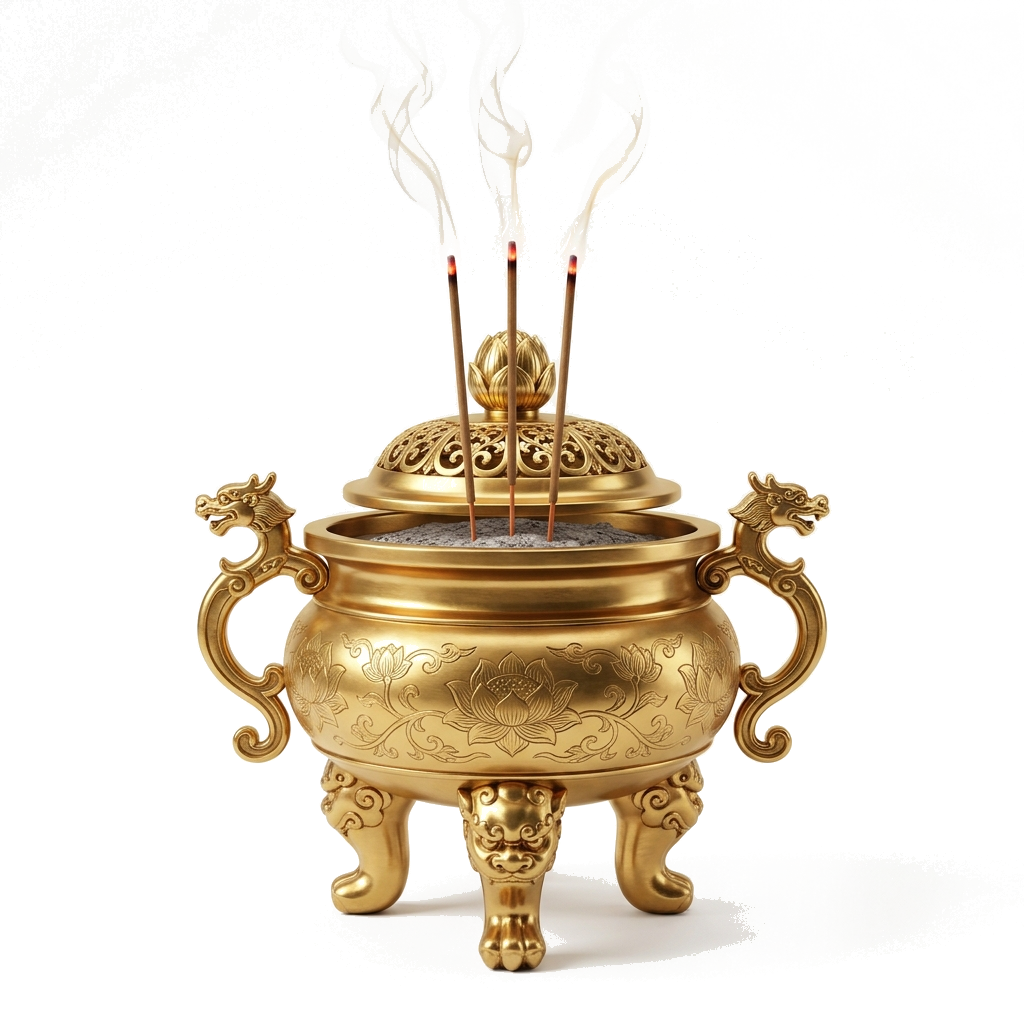
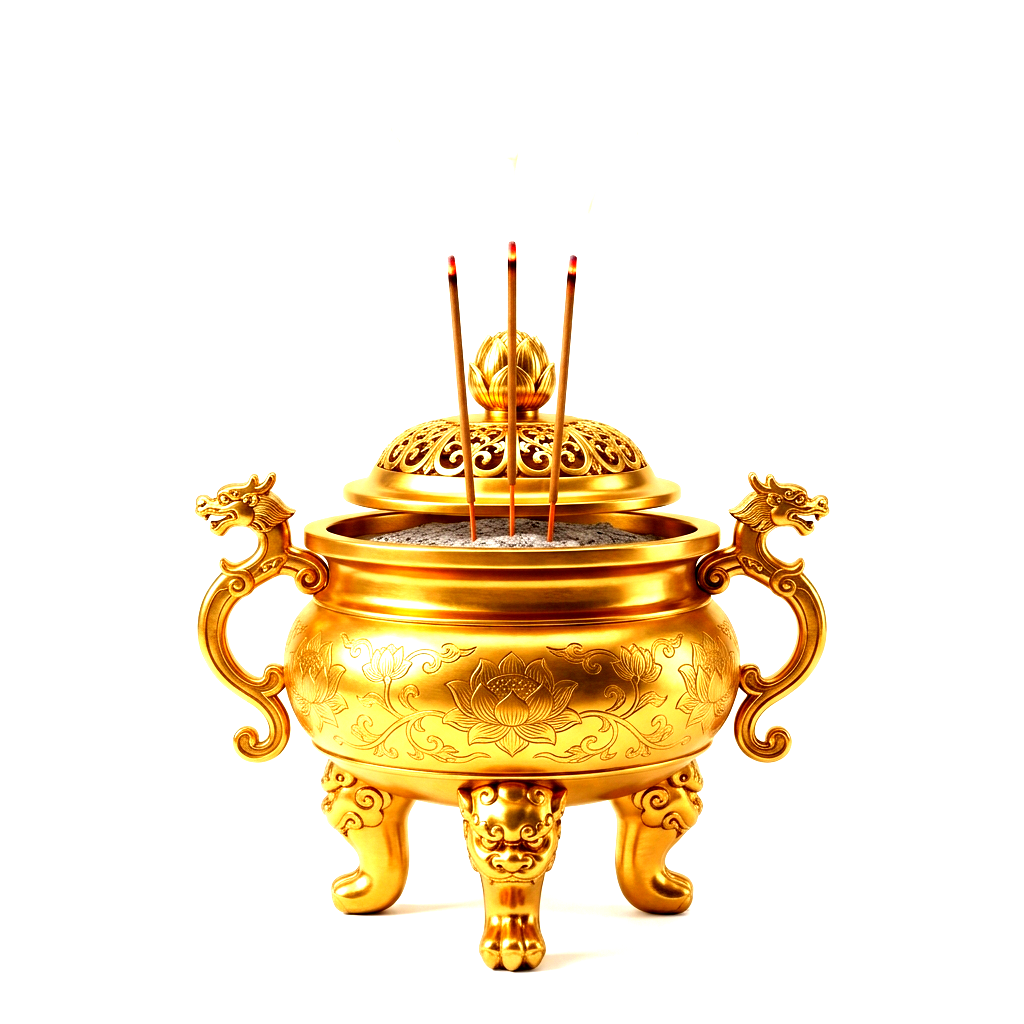
feat(sanctuary): add traditional altar incense table with realistic smoking incense burner

diff --git a/src/components/Meditate/SowonsaSanctuaryModal.jsx b/src/components/Meditate/SowonsaSanctuaryModal.jsx
@@ -601,9 +601,10 @@ export default function SowonsaSanctuaryModal({
         <div className="absolute inset-x-0 bottom-0 h-28 bg-gradient-to-t from-black via-black/80 to-transparent pointer-events-none" />
       </div>
 
-      {/* 2-1. 대웅전 실제 전경 제단 뷰 (z-[1]: 수미단 목조 하단까지 원본 그대로 높고 웅장하게 전체 노출) */}
+      {/* 2-1. 대웅전 실제 전경 제단 뷰 & 제단 앞 전통 향탁/향로/향 연기 씬 */}
       <div className="absolute inset-x-0 top-12 sm:top-14 flex flex-col items-center pointer-events-none z-[1]">
-        <div className="relative w-full max-w-xl aspect-[4/3] overflow-hidden">
+        <div className="relative w-full max-w-xl aspect-[4/3]">
+          {/* 대웅전 실제 전경 삼존불 제단 원본 사진 */}
           <img 
             src="/images/sowonsa_daewoongjeon_altar_front.jpg" 
             alt="제주 소원사 대웅전 삼존불" 
@@ -612,8 +613,8 @@ export default function SowonsaSanctuaryModal({
           {/* 상단 단청 연결부 자연스러운 음영 */}
           <div className="absolute inset-x-0 top-0 h-3 bg-gradient-to-b from-black/30 to-transparent pointer-events-none" />
           
-          {/* 하단 목조 수미단 바닥 접지면만 미세한 자연스러운 그림자 (수미단 본체 전체 온전히 노출) */}
-          <div className="absolute inset-x-0 bottom-0 h-3 bg-gradient-to-t from-black/30 to-transparent pointer-events-none" />
+          {/* 하단 목조 수미단 바닥 접지면 미세한 자연스러운 그림자 */}
+          <div className="absolute inset-x-0 bottom-0 h-4 bg-gradient-to-t from-black/40 to-transparent pointer-events-none" />
 
           {/* 좌우 은은한 비네팅 */}
           <div className="absolute inset-y-0 left-0 w-2.5 bg-gradient-to-r from-black/30 to-transparent pointer-events-none" />
@@ -621,55 +622,125 @@ export default function SowonsaSanctuaryModal({
           
           {/* 삼존불 황금빛 광배 은은한 후광 조명 효과 */}
           <div className="absolute inset-0 bg-[radial-gradient(ellipse_at_50%_35%,_var(--tw-gradient-stops))] from-[#FFD700]/15 via-transparent to-transparent pointer-events-none" />
-        </div>
-      </div>
 
-      {/* 🕯 부처님 전 분향(향올리기) 실시간 연기 & 서기(瑞氣) 대형 시각 이펙트 */}
-      {isSmokingIncense && (
-        <div className="absolute inset-x-0 top-24 sm:top-28 z-20 flex flex-col items-center justify-center pointer-events-none animate-in fade-in zoom-in-90 duration-500">
-          {/* 황금빛 서기 후광 오라 */}
-          <div className="absolute w-56 h-56 rounded-full bg-gradient-to-t from-amber-400/30 via-yellow-300/20 to-transparent blur-3xl animate-pulse" />
-          
-          {/* 모락모락 피어오르는 청정한 3줄기 향 연기 애니메이션 */}
-          <div className="relative flex flex-col items-center">
-            <svg viewBox="0 0 120 140" className="w-32 h-40 sm:w-40 sm:h-48 drop-shadow-[0_0_20px_rgba(245,208,97,0.9)]">
-              <path
-                d="M50 130 C42 100 68 75 52 40 C44 20 58 8 55 0"
-                stroke="rgba(255, 248, 210, 0.85)"
-                strokeWidth="3.5"
-                fill="none"
-                strokeLinecap="round"
-                className="animate-pulse"
-              />
-              <path
-                d="M60 130 C68 105 48 80 64 45 C72 25 60 10 62 0"
-                stroke="rgba(255, 235, 160, 0.95)"
-                strokeWidth="4"
-                fill="none"
-                strokeLinecap="round"
-              />
-              <path
-                d="M70 130 C78 100 58 70 70 38 C76 18 64 5 66 0"
-                stroke="rgba(255, 248, 210, 0.8)"
-                strokeWidth="3"
-                fill="none"
-                strokeLinecap="round"
-                className="animate-pulse"
-              />
-              {/* 타오르는 붉은 불씨 */}
-              <circle cx="50" cy="132" r="3" fill="#FF5252" className="animate-ping" />
-              <circle cx="60" cy="132" r="3.5" fill="#FF7675" className="animate-pulse" />
-              <circle cx="70" cy="132" r="3" fill="#FF5252" className="animate-ping" />
-            </svg>
+          {/* ══════════════════════════════════════════════════════════════
+              🪔 수미단(제단) 앞 조그만 전통 목조 향탁 & 황금 향로 & 피어오르는 향 연기
+              ══════════════════════════════════════════════════════════════ */}
+          <div className="absolute bottom-1 sm:bottom-2 left-1/2 -translate-x-1/2 flex flex-col items-center pointer-events-none z-10">
+            
+            {/* 1. 향로에서 삼존불을 향해 피어오르는 부드러운 향 연기 (Smoke Layer) */}
+            <div className="relative w-32 h-36 -mb-6 flex justify-center items-end pointer-events-none overflow-visible">
+              
+              {/* [평상시 기본 은은한 연기] */}
+              {!isSmokingIncense && (
+                <div className="relative w-16 h-32 flex justify-center items-end opacity-60">
+                  {/* 연기 줄기 1 */}
+                  <div className="absolute bottom-2 w-3 h-16 rounded-full bg-gradient-to-t from-amber-200/50 via-white/40 to-transparent blur-[2px] anim-smoke-1" />
+                  {/* 연기 줄기 2 */}
+                  <div className="absolute bottom-2 w-4 h-20 rounded-full bg-gradient-to-t from-yellow-100/40 via-white/30 to-transparent blur-[2.5px] anim-smoke-2" />
+                  {/* 연기 줄기 3 */}
+                  <div className="absolute bottom-2 w-2.5 h-14 rounded-full bg-gradient-to-t from-amber-100/45 via-white/35 to-transparent blur-[2px] anim-smoke-3" />
+                </div>
+              )}
 
-            {/* 청정한 향 공양 축원 플로팅 배지 */}
-            <div className="mt-1 px-4 py-1.5 rounded-full bg-black/85 border border-[#F5D061] text-xs font-serif-kr text-[#F5D061] shadow-2xl flex items-center gap-1.5 animate-in slide-in-from-bottom-3 duration-300">
-              <span className="text-sm">🕯</span>
-              <span className="font-bold tracking-tight">부처님 전에 청정한 향을 사릅니다</span>
+              {/* [향올리기 터치 시: 풍성하고 성스러운 황금빛 향 연기 & 서기] */}
+              {isSmokingIncense && (
+                <div className="relative w-28 h-36 flex justify-center items-end animate-in fade-in zoom-in-95 duration-500">
+                  {/* 황금빛 서기 은은한 아우라 */}
+                  <div className="absolute -top-4 w-40 h-40 rounded-full bg-gradient-to-t from-amber-400/35 via-yellow-200/20 to-transparent blur-2xl animate-pulse" />
+                  
+                  {/* 풍성한 활성 연기 레이어 1 */}
+                  <div className="absolute bottom-2 w-5 h-24 rounded-full bg-gradient-to-t from-amber-300/70 via-white/60 to-transparent blur-[2px] anim-smoke-active-1" />
+                  {/* 풍성한 활성 연기 레이어 2 */}
+                  <div className="absolute bottom-2 w-7 h-28 rounded-full bg-gradient-to-t from-yellow-200/60 via-amber-100/50 to-transparent blur-[3px] anim-smoke-active-2" />
+                  {/* 풍성한 활성 연기 레이어 3 */}
+                  <div className="absolute bottom-2 w-4 h-22 rounded-full bg-gradient-to-t from-amber-400/60 via-white/50 to-transparent blur-[2px] anim-smoke-active-3" />
+
+                  {/* 유려한 물결 연기 곡선 SVG */}
+                  <svg viewBox="0 0 80 120" className="absolute bottom-3 w-20 h-28 opacity-75 drop-shadow-[0_0_8px_rgba(255,230,150,0.8)] pointer-events-none">
+                    <path
+                      d="M38 115 C32 90 52 65 38 35 C32 18 44 8 40 0"
+                      stroke="rgba(255, 245, 210, 0.75)"
+                      strokeWidth="2.5"
+                      fill="none"
+                      strokeLinecap="round"
+                      className="animate-pulse"
+                    />
+                    <path
+                      d="M42 115 C48 95 34 70 46 40 C52 22 42 10 44 0"
+                      stroke="rgba(255, 235, 170, 0.85)"
+                      strokeWidth="3"
+                      fill="none"
+                      strokeLinecap="round"
+                    />
+                  </svg>
+                </div>
+              )}
             </div>
+
+            {/* 2. 향탁 위에 놓인 3D 황금 향로 & 꽂혀 있는 3개의 선향 */}
+            <div className="relative flex flex-col items-center z-10">
+              
+              {/* 향로에 꽂힌 3가닥 선향(線香) 및 빨간 불씨 */}
+              <div className="relative w-8 h-4 flex justify-center items-end -mb-1">
+                {/* 왼쪽 향 */}
+                <div className="relative -mr-1 flex flex-col items-center origin-bottom -rotate-6">
+                  <span className="w-1.5 h-1.5 rounded-full bg-[#FF4500] anim-ember shadow-[0_0_4px_#FF4500]" />
+                  <span className="w-[1px] h-3.5 bg-amber-900/90" />
+                </div>
+                {/* 중앙 향 */}
+                <div className="relative z-10 flex flex-col items-center">
+                  <span className={`w-1.5 h-1.5 rounded-full bg-[#FF3300] anim-ember shadow-[0_0_5px_#FF5500] ${isSmokingIncense ? 'scale-150 !bg-[#FFD700]' : ''}`} />
+                  <span className="w-[1.2px] h-4 bg-amber-950" />
+                </div>
+                {/* 오른쪽 향 */}
+                <div className="relative -ml-1 flex flex-col items-center origin-bottom rotate-6">
+                  <span className="w-1.5 h-1.5 rounded-full bg-[#FF4500] anim-ember shadow-[0_0_4px_#FF4500]" />
+                  <span className="w-[1px] h-3.5 bg-amber-900/90" />
+                </div>
+              </div>
+
+              {/* 3D 황금 향로 본체 (사찰 정통 삼족 향로) */}
+              <div className="relative">
+                <img 
+                  src="/images/icon_incense_3d.png" 
+                  alt="대웅전 수미단 향로" 
+                  className={`w-9 sm:w-11 h-9 sm:h-11 object-contain drop-shadow-[0_3px_6px_rgba(0,0,0,0.85)] filter contrast-125 transition-all duration-300 ${
+                    isSmokingIncense ? 'brightness-125 drop-shadow-[0_0_12px_rgba(245,208,97,0.8)] scale-105' : 'brightness-110'
+                  }`}
+                />
+                {/* 향로 밑 접지면 그림자 */}
+                <div className="absolute -bottom-0.5 inset-x-1 h-1.5 bg-black/80 rounded-full blur-[1px]" />
+              </div>
+            </div>
+
+            {/* 3. 조그만 전통 목조 향탁 (경상 스타일 탁자) */}
+            <div className="relative -mt-1 flex flex-col items-center">
+              {/* 탁자 상판 (짙은 옻칠 원목 + 황금 테두리 + 양끝 버선코 곡선) */}
+              <div className="relative w-24 sm:w-28 h-3 sm:h-3.5 bg-gradient-to-r from-[#1c0f0a] via-[#3d1f12] to-[#1c0f0a] rounded-sm border-t border-[#D4AF37]/50 shadow-md flex items-center justify-between px-1">
+                <div className="w-1 h-full border-l border-[#D4AF37]/40 rounded-l" />
+                <div className="text-[7px] text-[#D4AF37]/40 tracking-widest font-serif-kr">소원사</div>
+                <div className="w-1 h-full border-r border-[#D4AF37]/40 rounded-r" />
+              </div>
+              {/* 탁자 다리/받침대 (전통 목조 아치형) */}
+              <div className="w-20 sm:w-24 h-2 sm:h-2.5 bg-gradient-to-b from-[#1c0f0a] to-[#0f0704] rounded-b-sm border-x border-b border-black/40 flex justify-between px-2">
+                <span className="w-1.5 h-full bg-[#120804] border-l border-white/5" />
+                <span className="w-1.5 h-full bg-[#120804] border-r border-white/5" />
+              </div>
+              {/* 탁자 바닥 대청마루 접지 섀도우 */}
+              <div className="w-28 sm:w-32 h-1.5 bg-black/85 rounded-full blur-[2px] -mt-0.5" />
+            </div>
+
+            {/* 4. 청정한 향 공양 축원 슬림 배지 (수미단을 가리지 않고 탁자 바로 아래에 단정하게 표시) */}
+            {isSmokingIncense && (
+              <div className="mt-1.5 px-3 py-1 rounded-full bg-black/85 backdrop-blur-md border border-[#F5D061]/80 text-[11px] font-serif-kr text-[#F5D061] shadow-2xl flex items-center gap-1.5 animate-in fade-in slide-in-from-top-1 duration-300">
+                <span className="text-xs">🕯</span>
+                <span className="font-bold tracking-tight">부처님 전에 청정한 향을 사릅니다</span>
+              </div>
+            )}
           </div>
         </div>
-      )}
+      </div>
 
       {/* 멍스테이 모드 안내 플로팅 팁 */}
       {isZenMode && (

diff --git a/src/index.css b/src/index.css
@@ -434,3 +434,130 @@ p, span, h1, h2, h3, h4, h5, h6, label, button {
   cursor: pointer;
   z-index: 10;
 }
+
+/* 🪔 사찰 대웅전 수미단 향로 & 향 연기(Incense Smoke) 시네마틱 애니메이션 */
+@keyframes incenseSmokeRise1 {
+  0% {
+    transform: translateY(0) scaleX(0.8) scaleY(0.8) translateX(0);
+    opacity: 0;
+    filter: blur(1px);
+  }
+  15% {
+    opacity: 0.75;
+    transform: translateY(-18px) scaleX(1.1) scaleY(1.1) translateX(3px);
+    filter: blur(2px);
+  }
+  45% {
+    opacity: 0.65;
+    transform: translateY(-48px) scaleX(1.8) scaleY(1.4) translateX(-4px);
+    filter: blur(3.5px);
+  }
+  75% {
+    opacity: 0.35;
+    transform: translateY(-85px) scaleX(2.6) scaleY(1.8) translateX(6px);
+    filter: blur(5px);
+  }
+  100% {
+    transform: translateY(-125px) scaleX(3.5) scaleY(2.2) translateX(2px);
+    opacity: 0;
+    filter: blur(8px);
+  }
+}
+
+@keyframes incenseSmokeRise2 {
+  0% {
+    transform: translateY(0) scaleX(0.7) scaleY(0.7) translateX(0);
+    opacity: 0;
+    filter: blur(1px);
+  }
+  20% {
+    opacity: 0.8;
+    transform: translateY(-22px) scaleX(1.2) scaleY(1.1) translateX(-3px);
+    filter: blur(2px);
+  }
+  50% {
+    opacity: 0.55;
+    transform: translateY(-56px) scaleX(2.0) scaleY(1.5) translateX(5px);
+    filter: blur(4px);
+  }
+  80% {
+    opacity: 0.25;
+    transform: translateY(-95px) scaleX(2.9) scaleY(1.9) translateX(-4px);
+    filter: blur(6px);
+  }
+  100% {
+    transform: translateY(-135px) scaleX(3.8) scaleY(2.4) translateX(1px);
+    opacity: 0;
+    filter: blur(9px);
+  }
+}
+
+@keyframes incenseSmokeRise3 {
+  0% {
+    transform: translateY(0) scaleX(0.9) scaleY(0.9) translateX(0);
+    opacity: 0;
+    filter: blur(1px);
+  }
+  18% {
+    opacity: 0.7;
+    transform: translateY(-16px) scaleX(1.3) scaleY(1.2) translateX(1px);
+    filter: blur(1.5px);
+  }
+  48% {
+    opacity: 0.5;
+    transform: translateY(-52px) scaleX(2.2) scaleY(1.6) translateX(-3px);
+    filter: blur(3.5px);
+  }
+  78% {
+    opacity: 0.2;
+    transform: translateY(-90px) scaleX(3.2) scaleY(2.0) translateX(3px);
+    filter: blur(5.5px);
+  }
+  100% {
+    transform: translateY(-130px) scaleX(4.2) scaleY(2.5) translateX(0);
+    opacity: 0;
+    filter: blur(8.5px);
+  }
+}
+
+@keyframes incenseEmberPulse {
+  0%, 100% {
+    opacity: 0.7;
+    transform: scale(0.9);
+    filter: drop-shadow(0 0 2px #ff4500);
+  }
+  50% {
+    opacity: 1;
+    transform: scale(1.25);
+    filter: drop-shadow(0 0 5px #ff7b00);
+  }
+}
+
+.anim-smoke-1 {
+  animation: incenseSmokeRise1 4.2s cubic-bezier(0.25, 0.46, 0.45, 0.94) infinite;
+}
+
+.anim-smoke-2 {
+  animation: incenseSmokeRise2 5.0s cubic-bezier(0.25, 0.46, 0.45, 0.94) infinite 1.4s;
+}
+
+.anim-smoke-3 {
+  animation: incenseSmokeRise3 4.6s cubic-bezier(0.25, 0.46, 0.45, 0.94) infinite 2.6s;
+}
+
+.anim-smoke-active-1 {
+  animation: incenseSmokeRise1 2.8s cubic-bezier(0.22, 1, 0.36, 1) infinite;
+}
+
+.anim-smoke-active-2 {
+  animation: incenseSmokeRise2 3.2s cubic-bezier(0.22, 1, 0.36, 1) infinite 0.7s;
+}
+
+.anim-smoke-active-3 {
+  animation: incenseSmokeRise3 3.0s cubic-bezier(0.22, 1, 0.36, 1) infinite 1.5s;
+}
+
+.anim-ember {
+  animation: incenseEmberPulse 2.2s ease-in-out infinite;
+}
+
